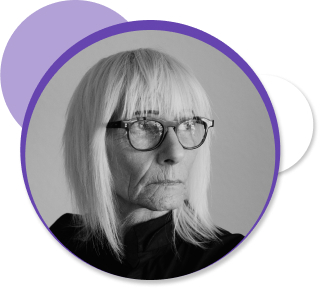
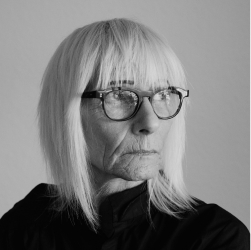
Fix comment picture resolution

diff --git a/layouts/partials/comment.html b/layouts/partials/comment.html
@@ -1,7 +1,11 @@
 <div class="flex items-center">
     <div class="relative mr-12">
-        {{ $image_jpg := resources.Get (printf "/comments/%s.jpg" .File.TranslationBaseName) }}
-        {{ partial "picture" (dict "img_jpg" $image_jpg "alt" (print "Portrait of " .Params.name)) }}
+        <div class="relative comment-picture">
+            {{ partial "svg/comment-background.svg" . }}
+
+            {{ $image_jpg := resources.Get (printf "/comments/%s.jpg" .File.TranslationBaseName) }}
+            {{ partial "picture" (dict "img_jpg" $image_jpg "alt" (print "Portrait of " .Params.name)) }}
+        </div>
 
         <div class="absolute flex flex-col bottom-0 left-3/4 w-full">
             <p class="text-4xl text-gold font-bold mb-2">{{ .Params.name }}</p>

diff --git a/assets/styles/main.scss b/assets/styles/main.scss
@@ -130,3 +130,11 @@ footer {
     width: 100%;
   }
 }
+
+.comment-picture picture {
+  position: absolute;
+  right: 2.75rem;
+  bottom: 0.5rem;
+  border-radius: 50%;
+  overflow: hidden;
+}
